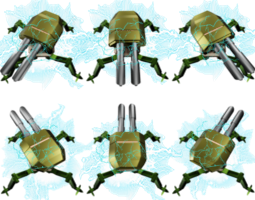
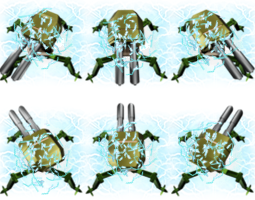
//電磁波技能 動畫更新

diff --git a/src/scene/GameScene.java b/src/scene/GameScene.java
@@ -293,11 +293,10 @@ public class GameScene extends Scene {
         if (Global.getLevel()==1 && step==2) {//敵軍可 以移動時
             if(count==1){
                 //做敵軍第一波
-                for (int i = 0; i < Global.random(5, 10); i++) {  //第一波敵人5-10隻
-                    enemys.add(new Enemy1(Global.random(500, 1000), Global.random(350, 400), true));
+                for (int i = 0; i < Global.random(1,1); i++) {  //第一波敵人5-10隻
+                    enemys.add(new Enemy4(Global.random(500, 1000), Global.random(350, 400), true));
                 }
             }
-
             if (count == 2) {  //
                 if (enemys.size() == 0) { //當敵軍
                     for (int i = 0; i < 10; i++) {
@@ -308,7 +307,7 @@ public class GameScene extends Scene {
             if(count ==3){
                 if (enemys.size() == 0) { //當敵軍
                     for (int i = 0; i < 10; i++) {
-                        enemys.add(new Enemy1(Global.random(400, 1000), Global.random(200, 350), true));
+                        enemys.add(new Enemy4(Global.random(400, 1000), Global.random(200, 350), true));
                     }
                 }
             }
@@ -318,7 +317,7 @@ public class GameScene extends Scene {
             if(count==1){
                 //做敵軍第一波
                 for (int i = 0; i < Global.random(1, 2); i++) {  //第一波敵人5-10隻
-                    enemys.add(new Boss(Global.random(400, 1200), Global.random(300, 450), true));
+                    enemys.add(new Enemy3(Global.random(400, 1200), Global.random(300, 450), true));
                 }
                 for (int i = 0; i < Global.random(2, 4); i++) {  //第一波敵人5-10隻
                     enemys.add(new Enemy2(Global.random(400, 1200), Global.random(300, 450), true));

diff --git a/src/gameobj/Enemy2.java b/src/gameobj/Enemy2.java
@@ -12,6 +12,7 @@ public class Enemy2 extends Actor{
     public Enemy2(float x,float y,boolean isEnemy){
         super(x,y,60,72,x,y,75,90);
         this.image= ImageController.getInstance().tryGet("/AE-Enemy2.png");
+        this.image2=ImageController.getInstance().tryGet("/AE-Enemy2_S6.png");
         hpLimit=250;//血量上限
         hp=hpLimit; //血量
         atk=100; //攻擊力
@@ -71,9 +72,15 @@ public class Enemy2 extends Actor{
     }
     @Override
     public void paintComponent(Graphics g) {
-        g.drawImage(image, (int) this.painter().left(), (int) this.painter().top(), (int) this.painter().right(), (int) this.painter().bottom(),
-                this.cannonDirection.getValue() % 3 * 75, cannonDirection.getValue() / 3 * 90,
-                this.cannonDirection.getValue() % 3 * 75 + 75, cannonDirection.getValue() / 3 * 90 + 90, null);
+        if(isOnDebuff){
+            g.drawImage(image2,(int)this.painter().left(),(int)this.painter().top(),(int)this.painter().right(),(int)this.painter().bottom(),
+                    this.cannonDirection.getValue()/3*75,0,
+                    this.cannonDirection.getValue()/3*75+75,90,null);
+        }else {
+            g.drawImage(image, (int) this.painter().left(), (int) this.painter().top(), (int) this.painter().right(), (int) this.painter().bottom(),
+                    this.cannonDirection.getValue() / 3 * 75, 0,
+                    this.cannonDirection.getValue() / 3 * 75 + 75, 90, null);
+        }
         g.drawImage(image_hp,(int)this.painter().left(),(int)this.painter().bottom(),(int)(this.painter().left()+(7.5F*(this.hp*10/hpLimit))),(int)this.painter().bottom()+11,
                 0,0,75,11,null);
 

diff --git a/src/gameobj/Enemy4.java b/src/gameobj/Enemy4.java
@@ -10,6 +10,7 @@ public class Enemy4 extends Actor{
     public Enemy4(float x,float y,boolean isEnemy){
         super(x,y,60,72,x,y,75,90);
         this.image= ImageController.getInstance().tryGet("/AE-Enemy4.png");
+        this.image2=ImageController.getInstance().tryGet("/AE-Enemy4_S6.png");
         hpLimit=350;//血量上限
         hp=hpLimit; //血量
         atk=150; //攻擊力
@@ -27,9 +28,15 @@ public class Enemy4 extends Actor{
 
     @Override
     public void paintComponent(Graphics g) {
-        g.drawImage(image,(int)this.painter().left(),(int)this.painter().top(),(int)this.painter().right(),(int)this.painter().bottom(),
-                this.cannonDirection.getValue()/3*85,0,
-                this.cannonDirection.getValue()/3*85+85,100,null);
+        if(isOnDebuff){
+            g.drawImage(image2,(int)this.painter().left(),(int)this.painter().top(),(int)this.painter().right(),(int)this.painter().bottom(),
+                    this.cannonDirection.getValue()/3*85,0,
+                    this.cannonDirection.getValue()/3*85+85,100,null);
+        }else {
+            g.drawImage(image, (int) this.painter().left(), (int) this.painter().top(), (int) this.painter().right(), (int) this.painter().bottom(),
+                    this.cannonDirection.getValue() / 3 * 85, 0,
+                    this.cannonDirection.getValue() / 3 * 85 + 85, 100, null);
+        }
         g.drawImage(image_hp,(int)this.painter().left(),(int)this.painter().bottom(),(int)(this.painter().left()+(7.5F*(this.hp*10/hpLimit))),(int)this.painter().bottom()+11,
                 0,0,75,11,null);
         for(int i=0;i<this.bullets.size();i++){

diff --git a/src/gameobj/Boss.java b/src/gameobj/Boss.java
@@ -23,6 +23,7 @@ public class Boss extends Actor{
         super(x,y,80,150,x,y,150,180);
         this.image= ImageController.getInstance().tryGet("/AE-Boss.png");
         this.image2=ImageController.getInstance().tryGet("/AE-Boss_S1.png");
+        this.image_S5=ImageController.getInstance().tryGet("/AE-Boss_S6.png");
         hpLimit=6000;//血量上限
         hp=hpLimit; //血量
         atk=100; //攻擊力
@@ -146,6 +147,10 @@ public class Boss extends Actor{
             g.drawImage(image2, (int) this.painter().left(), (int) this.painter().top(), (int) this.painter().right(), (int) this.painter().bottom(),
                     this.cannonDirection.getValue() / 3 * 150, 0,
                     this.cannonDirection.getValue() / 3 * 150 + 150, 180, null);
+        }else  if(isOnDebuff){
+            g.drawImage(image_S5,(int)this.painter().left(),(int)this.painter().top(),(int)this.painter().right(),(int)this.painter().bottom(),
+                    this.cannonDirection.getValue()/3*150,0,
+                    this.cannonDirection.getValue()/3*150+150,180,null);
         }else {
             g.drawImage(image, (int) this.painter().left(), (int) this.painter().top(), (int) this.painter().right(), (int) this.painter().bottom(),
                     this.cannonDirection.getValue() / 3 * 150, 0,
